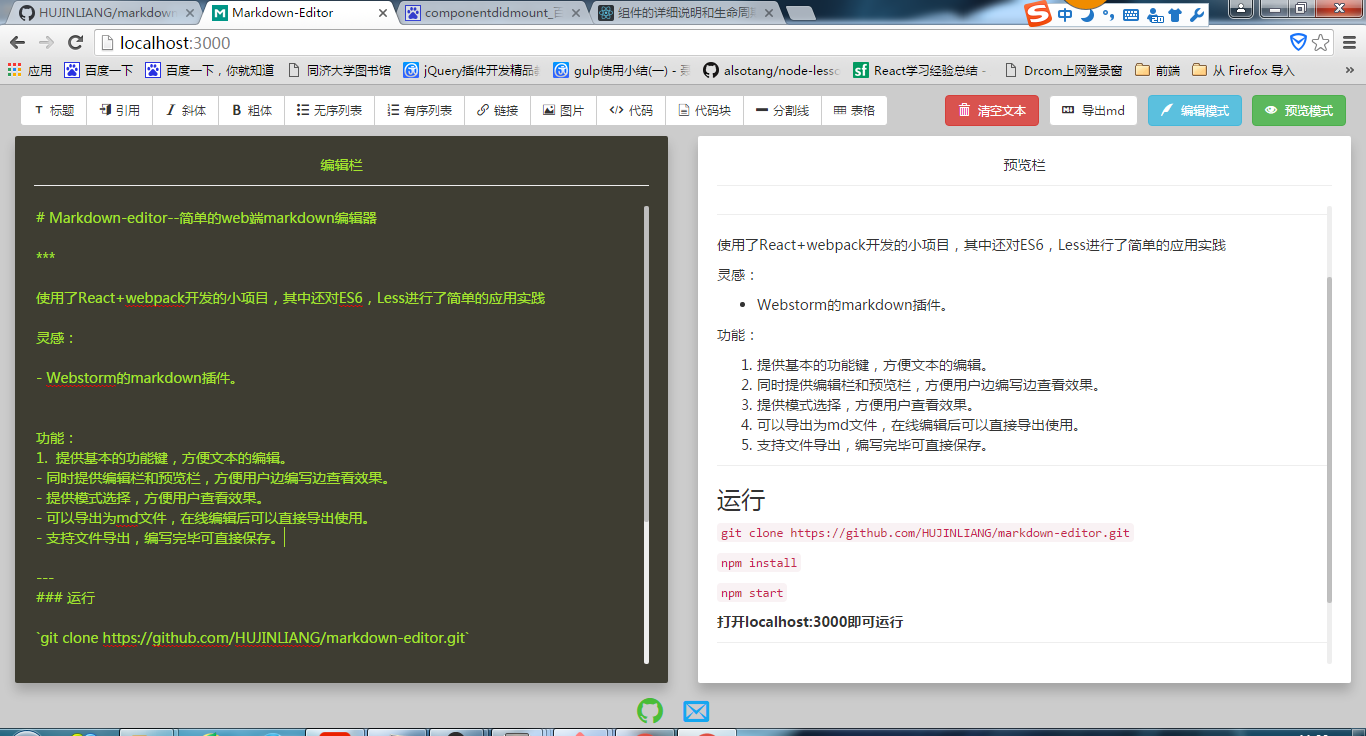
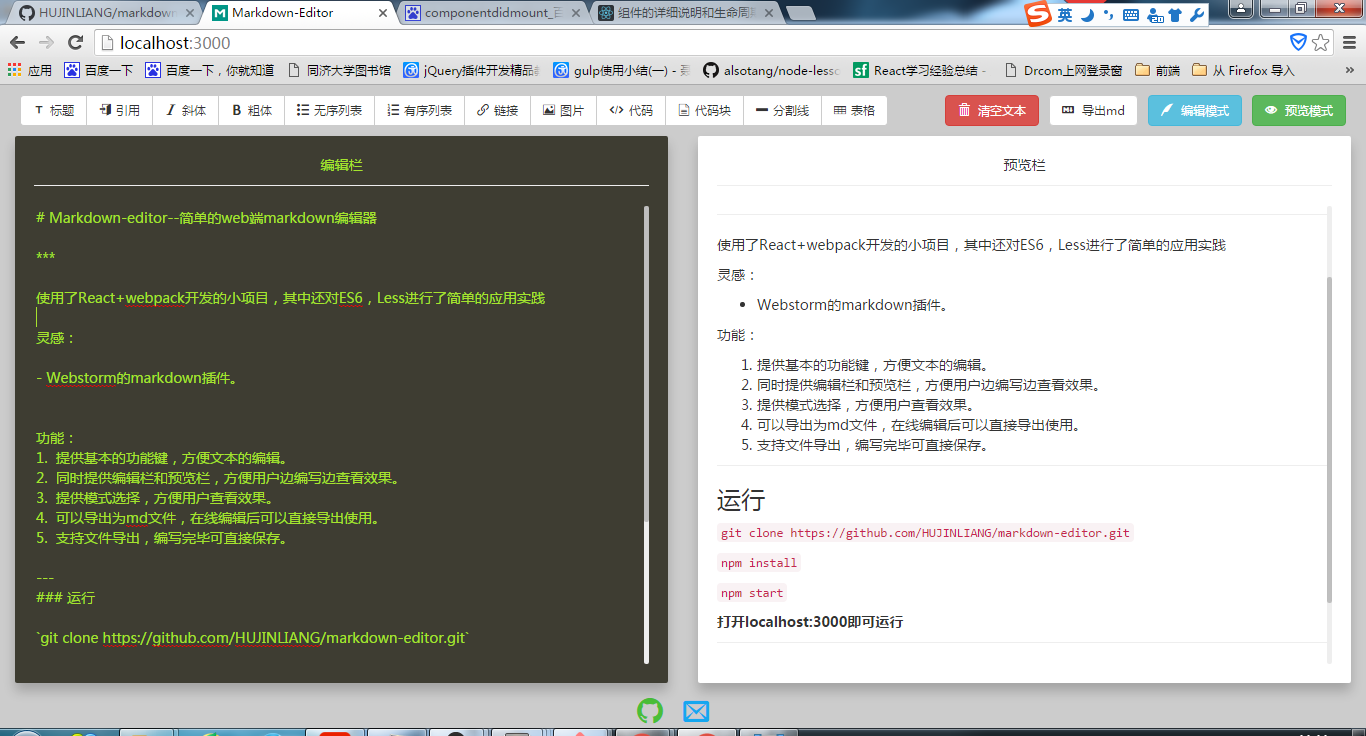
finish

diff --git a/README.md b/README.md
@@ -9,12 +9,14 @@
 - Webstorm的markdown插件。
 
 
+
 功能：
+
 1.  提供基本的功能键，方便文本的编辑。
-- 同时提供编辑栏和预览栏，方便用户边编写边查看效果。
-- 提供模式选择，方便用户查看效果。
-- 可以导出为md文件，在线编辑后可以直接导出使用。
-- 支持文件导出，编写完毕可直接保存。
+2.  同时提供编辑栏和预览栏，方便用户边编写边查看效果。
+3.  提供模式选择，方便用户查看效果。
+4.  可以导出为md文件，在线编辑后可以直接导出使用。
+5.  支持文件导出，编写完毕可直接保存。
 
 ---
 ### 运行
